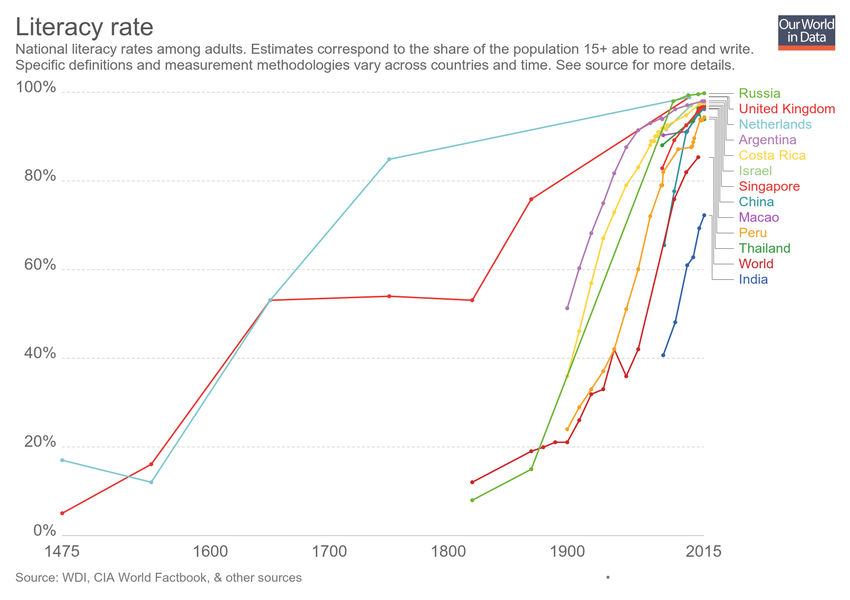
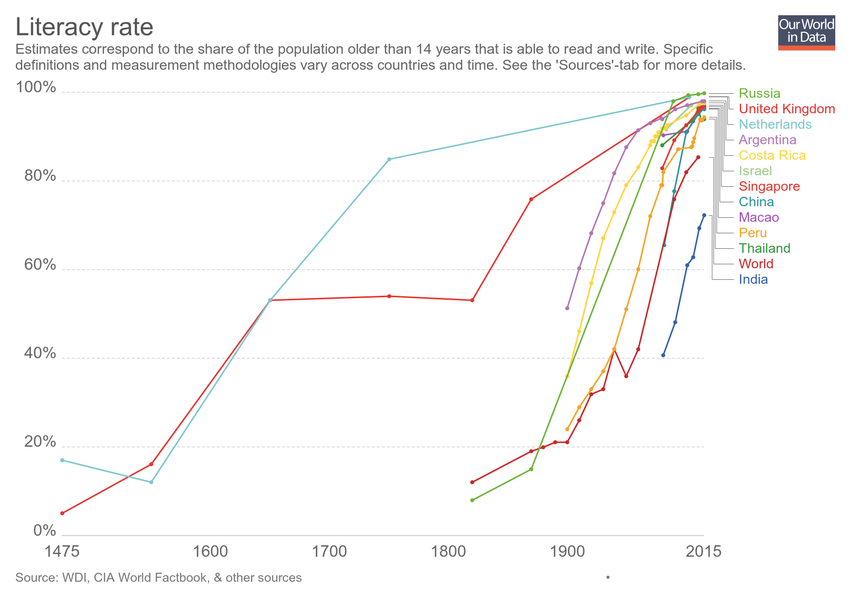
Updating chart cross-country-literacy-rates

Changed region(s): [[0.0, 0.06, 0.8871, 0.12]]

diff --git a/grapher/cross-country-literacy-rates.html b/grapher/cross-country-literacy-rates.html
@@ -1,4 +1,4 @@
-<!doctype html><html><head><meta name="viewport" content="width=device-width, initial-scale=1" /><title>Literacy rate - Our World in Data</title><meta name="description" content="National literacy rates among adults. Estimates correspond to the share of the population 15+ able to read and write. Specific definitions and measurement methodologies vary across countries and time. See source for more details. " /><link rel="canonical" href="https://ourworldindata.org/grapher/cross-country-literacy-rates" /><meta property="fb:app_id" content="1149943818390250" /><meta property="og:url" content="https://ourworldindata.org/grapher/cross-country-literacy-rates" /><meta property="og:title" content="Literacy rate" /><meta property="og:description" content="National literacy rates among adults. Estimates correspond to the share of the population 15+ able to read and write. Specific definitions and measurement methodologies vary across countries and time. See source for more details. " /><meta property="og:image" content="https://ourworldindata.org/grapher/exports/cross-country-literacy-rates.png?v=15" /><meta property="og:image:width" content="850" /><meta property="og:image:height" content="600" /><meta property="og:site_name" content="Our World in Data" /><meta name="twitter:card" content="summary_large_image" /><meta name="twitter:site" content="@OurWorldInData" /><meta name="twitter:creator" content="@OurWorldInData" /><meta name="twitter:title" content="Literacy rate" /><meta name="twitter:description" content="National literacy rates among adults. Estimates correspond to the share of the population 15+ able to read and write. Specific definitions and measurement methodologies vary across countries and time. See source for more details. " /><meta name="twitter:image" content="https://ourworldindata.org/grapher/exports/cross-country-literacy-rates.png?v=15" /><style>
+<!doctype html><html><head><meta name="viewport" content="width=device-width, initial-scale=1" /><title>Literacy rate - Our World in Data</title><meta name="description" content="Estimates correspond to the share of the population older than 14 years that is able to read and write. Specific definitions and measurement methodologies vary across countries and time. See the 'Sources'-tab for more details. " /><link rel="canonical" href="https://ourworldindata.org/grapher/cross-country-literacy-rates" /><meta property="fb:app_id" content="1149943818390250" /><meta property="og:url" content="https://ourworldindata.org/grapher/cross-country-literacy-rates" /><meta property="og:title" content="Literacy rate" /><meta property="og:description" content="Estimates correspond to the share of the population older than 14 years that is able to read and write. Specific definitions and measurement methodologies vary across countries and time. See the 'Sources'-tab for more details. " /><meta property="og:image" content="https://ourworldindata.org/grapher/exports/cross-country-literacy-rates.png?v=16" /><meta property="og:image:width" content="850" /><meta property="og:image:height" content="600" /><meta property="og:site_name" content="Our World in Data" /><meta name="twitter:card" content="summary_large_image" /><meta name="twitter:site" content="@OurWorldInData" /><meta name="twitter:creator" content="@OurWorldInData" /><meta name="twitter:title" content="Literacy rate" /><meta name="twitter:description" content="Estimates correspond to the share of the population older than 14 years that is able to read and write. Specific definitions and measurement methodologies vary across countries and time. See the 'Sources'-tab for more details. " /><meta name="twitter:image" content="https://ourworldindata.org/grapher/exports/cross-country-literacy-rates.png?v=16" /><style>
         html, body {
             height: 100%;
             margin: 0;
@@ -20,8 +20,8 @@
         }
     </style><noscript><style>
                     figure { display: none !important; }
-                </style></noscript><link rel="stylesheet" href="https://ourworldindata.org/grapher/assets/commons.bundle.61e7e8919affad283a27.css" /><link rel="preload" href="/grapher/data/variables/97407.json?v=15" as="fetch" crossorigin /></head><body class="singleChart"><figure data-grapher-src="/grapher/cross-country-literacy-rates"></figure><noscript id="fallback"><img src="/grapher/exports/cross-country-literacy-rates.svg" /><p>Interactive visualization requires JavaScript</p></noscript><script src="https://cdn.polyfill.io/v2/polyfill.min.js?features=es6,fetch"></script><script src="https://ourworldindata.org/grapher/assets/commons.bundle.61e7e8919affad283a27.js"></script><script src="https://ourworldindata.org/grapher/assets/charts.bundle.61e7e8919affad283a27.js"></script><script>
-        var jsonConfig = {"id":2617,"map":{"projection":"World","targetYear":2015,"variableId":97407,"timeTolerance":15,"baseColorScheme":"PuBu","isManualBuckets":true,"colorSchemeLabels":[],"colorSchemeValues":[20,40,60,80,95,100],"customNumericColors":[],"customCategoryColors":{},"customCategoryLabels":{},"customHiddenCategories":{}},"tab":"chart","slug":"cross-country-literacy-rates","type":"LineChart","title":"Literacy rate","xAxis":{"scaleType":"linear"},"yAxis":{"max":100,"min":0,"scaleType":"linear"},"version":15,"subtitle":"National literacy rates among adults. Estimates correspond to the share of the population 15+ able to read and write. Specific definitions and measurement methodologies vary across countries and time. See source for more details. ","hasMapTab":true,"originUrl":"https://ourworldindata.org/literacy","stackMode":"absolute","dimensions":[{"display":{"numDecimalPlaces":0},"property":"y","variableId":97407}],"sourceDesc":"WDI, CIA World Factbook, & other sources","hasChartTab":true,"isPublished":true,"selectedData":[{"index":0,"entityId":262},{"index":0,"entityId":133},{"index":0,"entityId":171},{"index":0,"entityId":355},{"index":0,"entityId":1},{"index":0,"entityId":75},{"index":0,"entityId":86},{"index":0,"entityId":5},{"index":0,"entityId":137},{"index":0,"entityId":166},{"index":0,"entityId":21},{"index":0,"entityId":12},{"index":0,"entityId":97}],"addCountryMode":"add-country"};
+                </style></noscript><link rel="stylesheet" href="https://ourworldindata.org/grapher/assets/commons.bundle.61e7e8919affad283a27.css" /><link rel="preload" href="/grapher/data/variables/97407.json?v=16" as="fetch" crossorigin /></head><body class="singleChart"><figure data-grapher-src="/grapher/cross-country-literacy-rates"></figure><noscript id="fallback"><img src="/grapher/exports/cross-country-literacy-rates.svg" /><p>Interactive visualization requires JavaScript</p></noscript><script src="https://cdn.polyfill.io/v2/polyfill.min.js?features=es6,fetch"></script><script src="https://ourworldindata.org/grapher/assets/commons.bundle.61e7e8919affad283a27.js"></script><script src="https://ourworldindata.org/grapher/assets/charts.bundle.61e7e8919affad283a27.js"></script><script>
+        var jsonConfig = {"id":2617,"map":{"projection":"World","targetYear":2015,"variableId":97407,"timeTolerance":15,"baseColorScheme":"PuBu","isManualBuckets":true,"colorSchemeLabels":[],"colorSchemeValues":[20,40,60,80,95,100],"customNumericColors":[],"customCategoryColors":{},"customCategoryLabels":{},"customHiddenCategories":{}},"tab":"chart","slug":"cross-country-literacy-rates","type":"LineChart","title":"Literacy rate","xAxis":{"scaleType":"linear"},"yAxis":{"max":100,"min":0,"scaleType":"linear"},"version":16,"subtitle":"Estimates correspond to the share of the population older than 14 years that is able to read and write. Specific definitions and measurement methodologies vary across countries and time. See the 'Sources'-tab for more details. ","hasMapTab":true,"originUrl":"https://ourworldindata.org/literacy","stackMode":"absolute","dimensions":[{"display":{"numDecimalPlaces":0},"property":"y","variableId":97407}],"sourceDesc":"WDI, CIA World Factbook, & other sources","hasChartTab":true,"isPublished":true,"selectedData":[{"index":0,"entityId":262},{"index":0,"entityId":133},{"index":0,"entityId":171},{"index":0,"entityId":355},{"index":0,"entityId":1},{"index":0,"entityId":75},{"index":0,"entityId":86},{"index":0,"entityId":5},{"index":0,"entityId":137},{"index":0,"entityId":166},{"index":0,"entityId":21},{"index":0,"entityId":12},{"index":0,"entityId":97}],"addCountryMode":"add-country"};
         var figure = document.getElementsByTagName("figure")[0];
         try {
             window.App = {};
